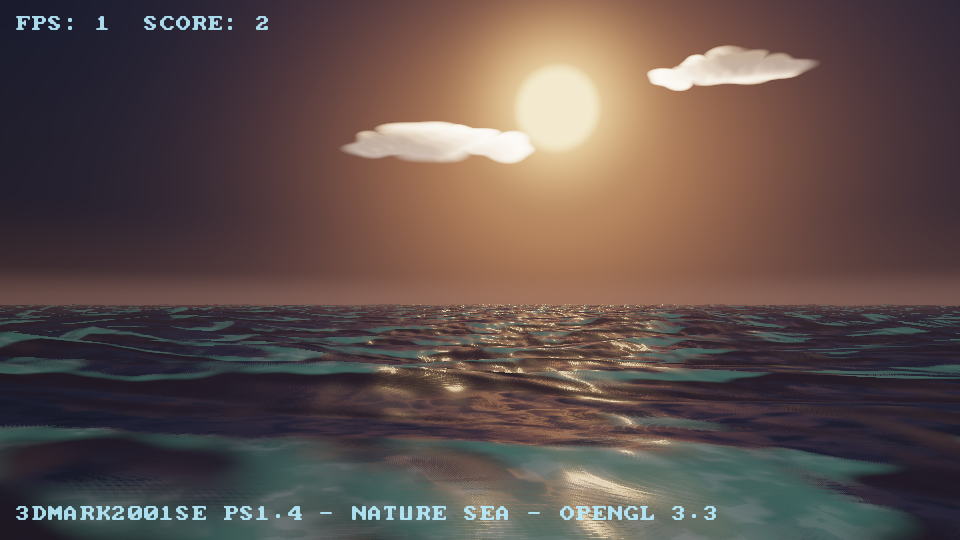
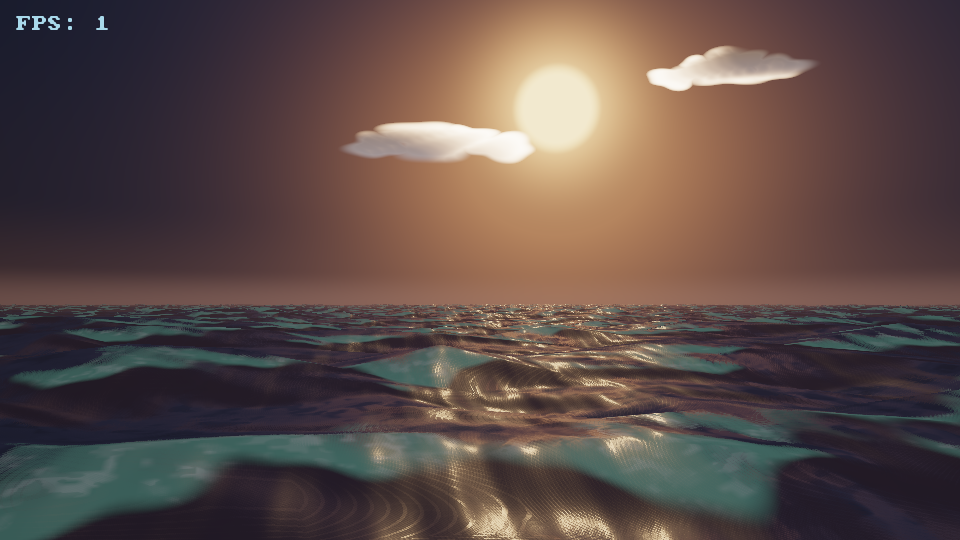
Rename PS14 benchmark to DuskTide, slim HUD to FPS, push the workload heavier
- Renamed: binary build/DuskTide(.exe), make target dusktide, window title
  "ElectroBench - DuskTide"; Makefile/CI/README updated
- HUD: single clean FPS readout — score and the 3DMark2001SE/Nature text
  removed from the on-screen overlay
- More realism by weight: env cubemap 512->768, sea grid 256->384 (2.25x
  vertices), cloud self-shadow march 4->6 samples, third wavelet octave.
  Workload roughly doubles (llvmpipe 0.9 -> 0.5 fps avg)

🤖 Generated with Codebuff

diff --git a/README.md b/README.md
@@ -7,7 +7,7 @@ It ships **two** benchmarks :
 | Benchmark | Renderer | Scene |
 |---|---|---|
 | **ElectroBench** (the OG) | OpenGL 2.1 / GLSL 1.2, fixed-function pipeline | **110 UZIs** on a shadow-mapped concrete floor, lit by a warm sun |
-| **PS1.4 Sea Benchmark** | OpenGL 3.3 core, pixel-shader workloads | A dusk ocean under volumetric clouds (3DMark2001 SE "Nature" recreation) |
+| **DuskTide** | OpenGL 3.3 core, pixel-shader workloads | A dusk ocean under volumetric clouds (3DMark2001 SE "Nature" recreation) |
 
 
 
@@ -23,7 +23,7 @@ Close-up — mags resting on the ground, shadows clearly visible under each gun:
 
 The PS1.4 sea benchmark — long cloud banks with sunward silver linings, a narrow orange glitter path down the middle of the sea, dark blue-purple water either side, raised swell banks:
 
-![PS1.4 sea benchmark](docs/screenshots/ps14_dusk_t36.png)
+![DuskTide dusk ocean benchmark](docs/screenshots/ps14_dusk_t36.png)
 
 # How to build ?
 
@@ -33,7 +33,7 @@ Dependencies : `make`, `g++`, SDL2, GLEW, GLU (+ dev headers). On Debian/Ubuntu 
 ```sh
 make            # builds BOTH benchmarks
 make legacy     # only the OG GL 2.1 benchmark
-make ps14       # only the PS1.4 sea benchmark
+make dusktide   # only DuskTide
 ```
 
 Binaries land in `build/` :
@@ -41,8 +41,8 @@ Binaries land in `build/` :
 ```sh
 ./build/ElectroBench          # OG 2.1 benchmark (Linux / macOS)
 ./build/ElectroBench.exe      # Windows (MSYS2)
-./build/PS14SeaBenchmark      # sea benchmark (Linux / macOS)
-./build/PS14SeaBenchmark.exe  # Windows (MSYS2)
+./build/DuskTide             # dusk ocean benchmark (Linux / macOS)
+./build/DuskTide.exe         # Windows (MSYS2)
 ```
 
 ## Static build
@@ -51,8 +51,9 @@ Pass `STATIC=1` to link everything statically (`-static -static-libgcc -static-l
 dependency archives) — handy for dropping a single exe on old machines:
 
 ```sh
-make STATIC=1            # -> build/ElectroBench-static(.exe), build/PS14SeaBenchmark-static(.exe)
+make STATIC=1            # -> build/ElectroBench-static(.exe), build/DuskTide-static(.exe)
 make STATIC=1 legacy     # just the OG, statically linked
+make STATIC=1 dusktide   # just DuskTide, statically linked
 ```
 
 This requires the **static archives** of every dependency (e.g. MSYS2's `mingw-w64-x86_64-SDL2` ships
@@ -70,34 +71,36 @@ into the scene), `ESC` quits. The FPS counter is a true frame-count average (SDL
 every frame accounted) — the on-screen value is a smoothed window, the final score uses **all** frames
 of the run.
 
-# PS1.4 Sea benchmark (3DMark2001 SE "Nature" recreation)
+# DuskTide — the dusk ocean benchmark
 
-The sea benchmark is written in **OpenGL 3.3 core** and recreates the pixel shader 1.4 workload from
-3DMark2001 SE: an ocean under a cloudy sky with real-time reflections. It is heavy on purpose — a
-low-end machine may land in the low single-digit FPS, that is the workload working.
+DuskTide is written in **OpenGL 3.3 core** and pushes a heavy, realistic dusk-ocean workload —
+high-resolution environment reflections, a dense displaced ocean mesh, and a real volumetric
+light-transport model for the clouds. It is heavy **on purpose**: the goal is to push old and new
+hardware alike, so low single-digit FPS on a low-end machine means the workload is doing its job.
 
 What it renders :
 - A procedural **sky dome** rendered **directly at full screen resolution**: dusk gradient with a
-  bright horizon band, a compact orange sun, and a handful of **volumetric cloud banks** — explicit
-  analytic puffs with real light transport (sunward silver linings, dark anti-sun bulk, top
-  sky-light, asymmetric rims). Coverage is exact by construction: a few long banks with real gaps,
-  no noise-texture mottle
-- A **4 km ocean patch** displaced on the GPU: long rolling swells with crest-skewed banks, per-pixel
-  analytic wave normals plus near-camera detail wavelets
-- Water shading structured like an asm `ps_1_4` shader: ripple-gradient **addressing** phase, a
-  **dependent read** into the environment cubemap for reflections (roughness-matched LOD, so the sun
-  smears into a glow instead of texel squares), fresnel blending, sun-tinted **glitter** path gated to
-  the sun's azimuth (bright path down the middle, dark blue-purple water either side),
+  bright horizon band, a compact orange sun, and a handful of **volumetric cloud banks** — each
+  visible cloud point ray-marches density toward the sun and shades with real light transport
+  (optical-depth self-shadowing, Henyey-Greenstein forward-scatter silver linings, dark anti-sun
+  bulk, skylight tops, powder-dense cores, aerial perspective). Coverage is exact by construction:
+  a few long banks with real gaps, no noise-texture mottle
+- A **4 km ocean patch** on a dense GPU-displaced grid: long rolling swells with crest-skewed banks,
+  per-pixel analytic wave normals plus near-camera detail wavelets
+- High-resolution **environment cubemap** reflections with roughness-matched LOD (the sun smears
+  into a glow, never texel squares), fresnel blending, sun-tinted **glitter** path gated to the
+  sun's azimuth (bright path down the middle, dark blue-purple water either side),
   slope-gated crest foam, subsurface glow in thin crests, and distance haze that converges into the
   actual per-azimuth sky colour so the far sea melts into the horizon
-- The same score formula as the main benchmark, over a 45 second run
+- A clean in-engine **FPS readout** (the score belongs to the final results line) and the same score
+  formula as the main benchmark, over a 45 second run
 
 Build and run it with :
 
 ```sh
 make
-./build/PS14SeaBenchmark          # Linux / macOS
-./build/PS14SeaBenchmark.exe      # Windows (MSYS2)
+./build/DuskTide          # Linux / macOS
+./build/DuskTide.exe      # Windows (MSYS2)
 ```
 
 Controls : `F` toggles the automatic fly-over camera, long-click + move orbits the camera, mouse wheel zooms, arrow keys look around, `ESC` quits.
@@ -105,7 +108,7 @@ Controls : `F` toggles the automatic fly-over camera, long-click + move orbits t
 Headless visual-test flags (used to verify the render output in CI-like environments):
 
 ```sh
-./build/PS14SeaBenchmark --width 960 --screenshot /tmp/shot.ppm --shot-times 6,20,38
+./build/DuskTide --width 960 --screenshot /tmp/shot.ppm --shot-times 6,20,38
 ./build/ElectroBench --screenshot /tmp/shot.ppm --shot-time 3
 ```
 
